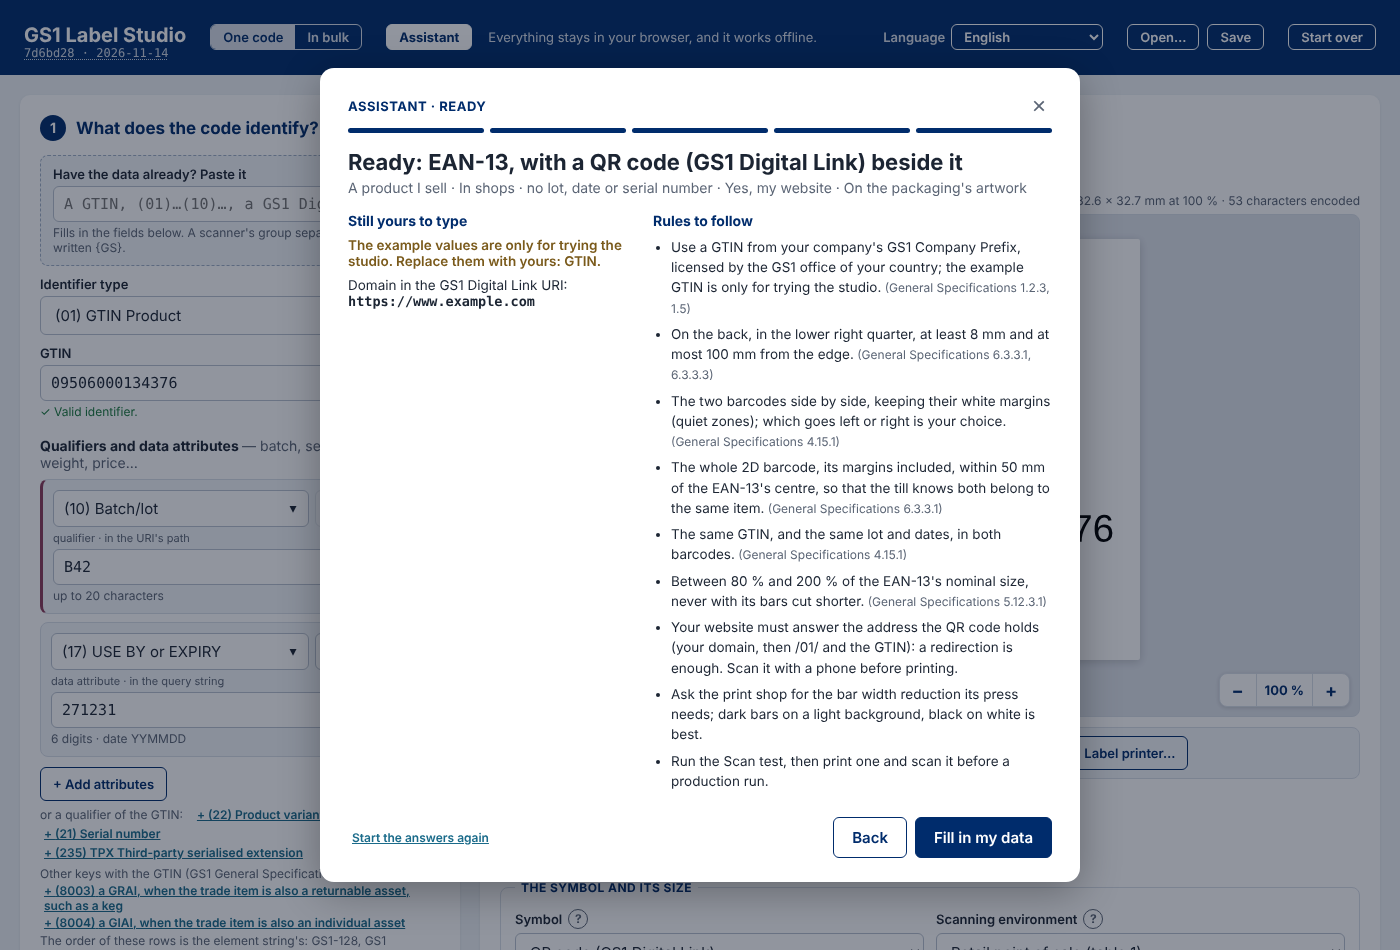
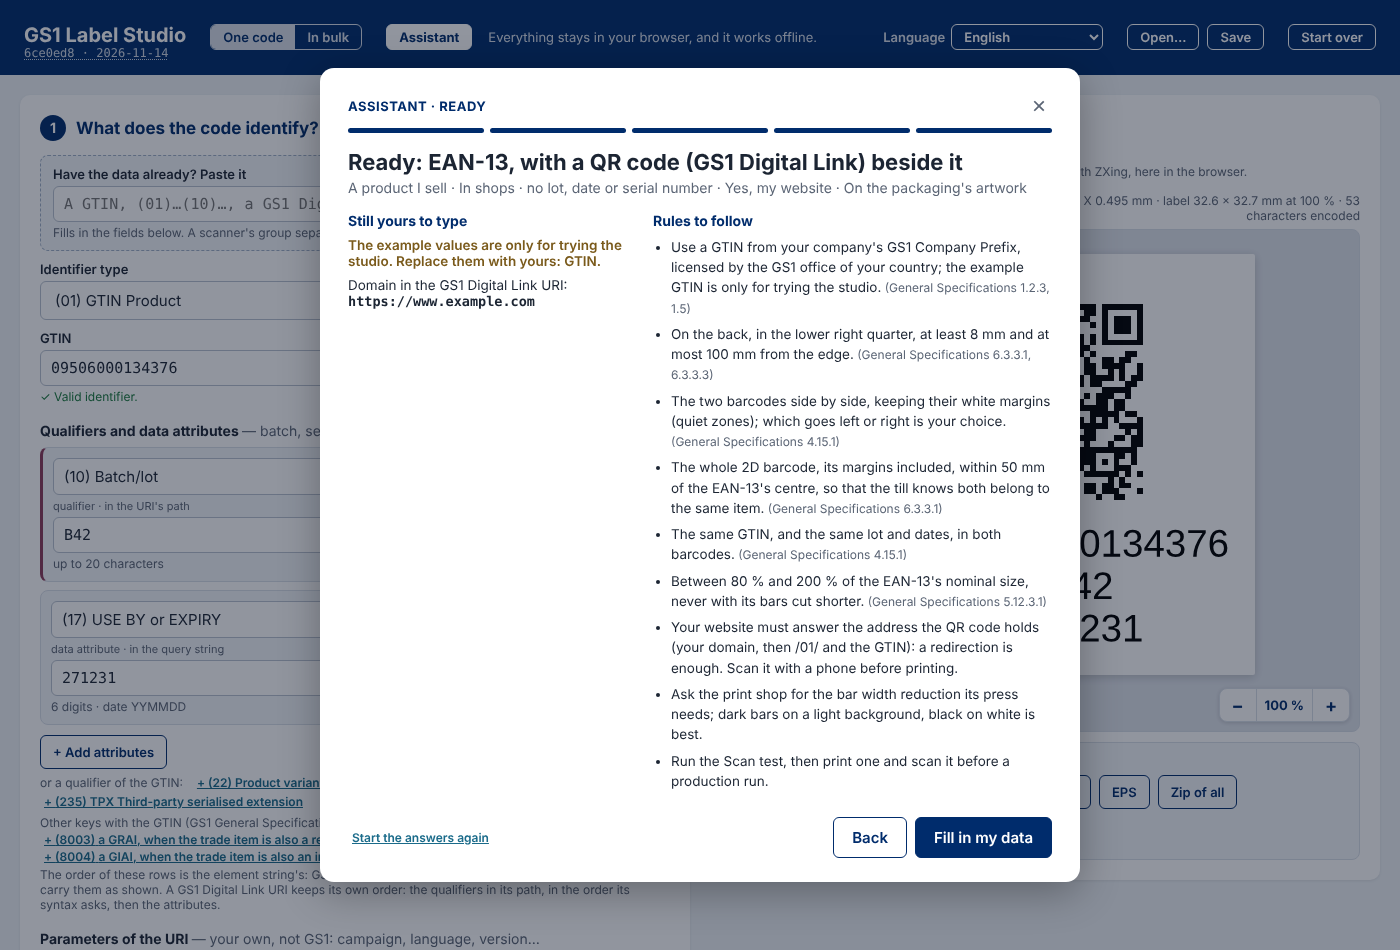
docs: screenshots retaken with Start over beside the name, the kinds of label and the computer's two columns
The step 3 and designer pictures are now taken of the label's area alone, as on a computer the options stand beside it.

Claude-Session: https://claude.ai/code/session_01AV1ostWyGqcc1M3p9oAQTd

diff --git a/apps/web/screenshots/guide.spec.ts b/apps/web/screenshots/guide.spec.ts
@@ -88,7 +88,7 @@ test("step 2: where it is scanned", async ({ page }) => {
 });
 
 test("step 3: the label, its options and exports", async ({ page }) => {
-  await shot(label(page), "label-card");
+  await shot(label(page).locator(".stage"), "label-card"); // the label and its exports; the options are beside them (6.3 c)
   await page.getByRole("button", { name: "Real size" }).click();
   await page.getByRole("button", { name: "Calibrate the screen" }).click();
   await shot(label(page).locator(".stage"), "real-size");
@@ -162,7 +162,7 @@ test("step 3: a label of one's own", async ({ page }) => {
   await page.fill("#el-y", "42");
   await page.getByRole("group", { name: "Rotation" }).getByRole("button", { name: "270°", exact: true }).click();
   await expect(page.locator(".design-problems")).toHaveCount(0);
-  await shot(label(page).locator(".panel"), "designer");
+  await shot(label(page).locator(".stage"), "designer");
 });
 
 test("step 3: the GS1 Logistic Label", async ({ page }) => {

diff --git a/docs/user-guide.md b/docs/user-guide.md
@@ -280,7 +280,7 @@ guided choice; **Change in step 2** goes back.
 
 ## 5. Step 3 — the label
 
-![Step 3: the label in its area, the Export bar, the options](images/guide/label-card.png)
+![Step 3: the label in its area and the Export bar; on a computer the options are beside it, on the left](images/guide/label-card.png)
 
 - The **caption** over the label says what is drawn: the symbol, its version or rows × columns and modules (or its width
   from the first bar to the last), the error correction, the X-dimension, the label's size at the chosen size, and the
